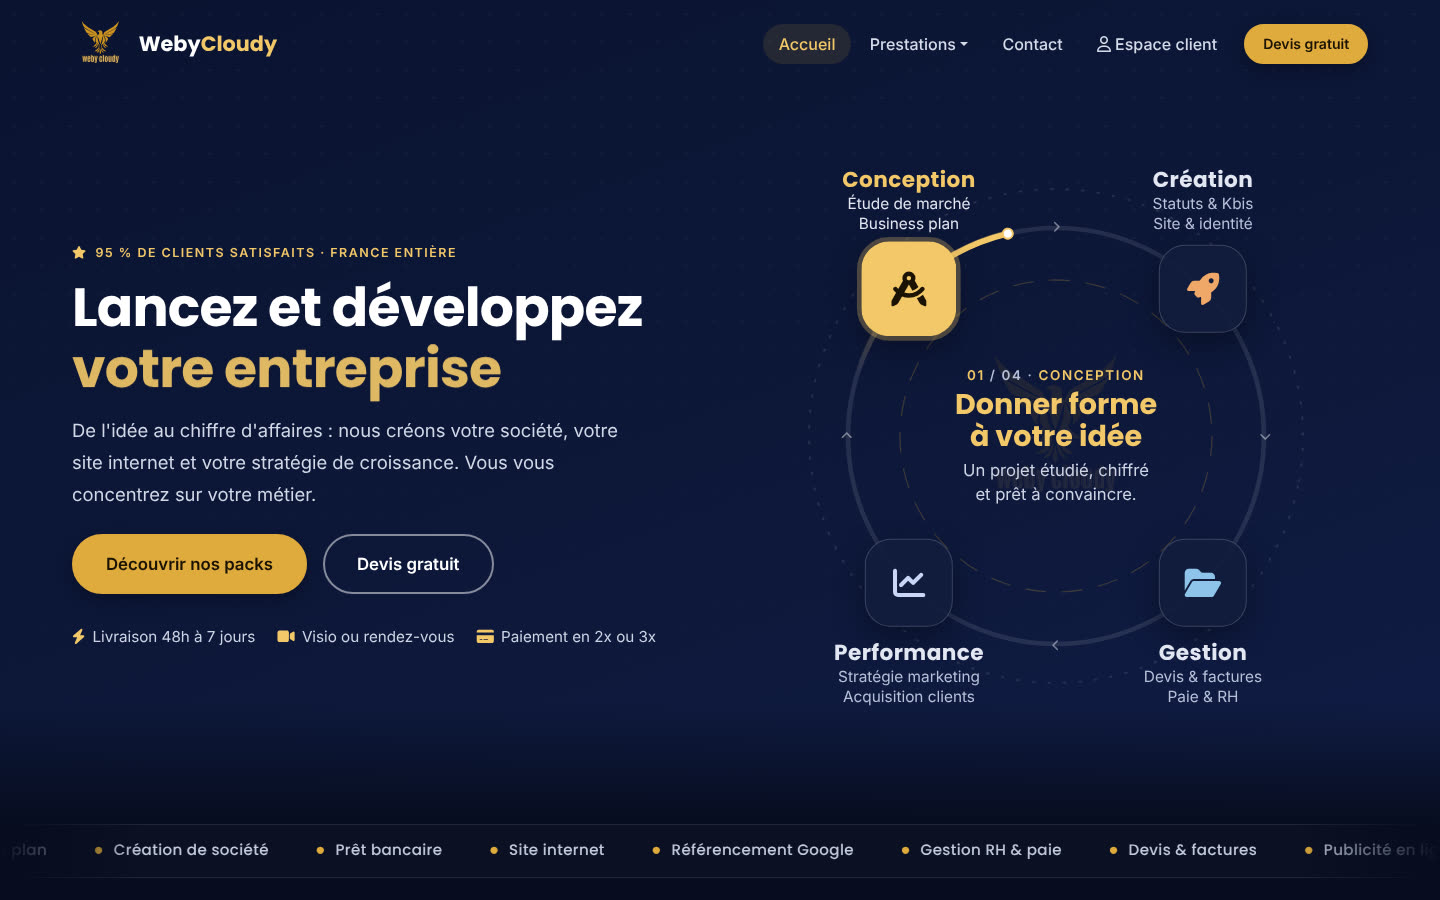
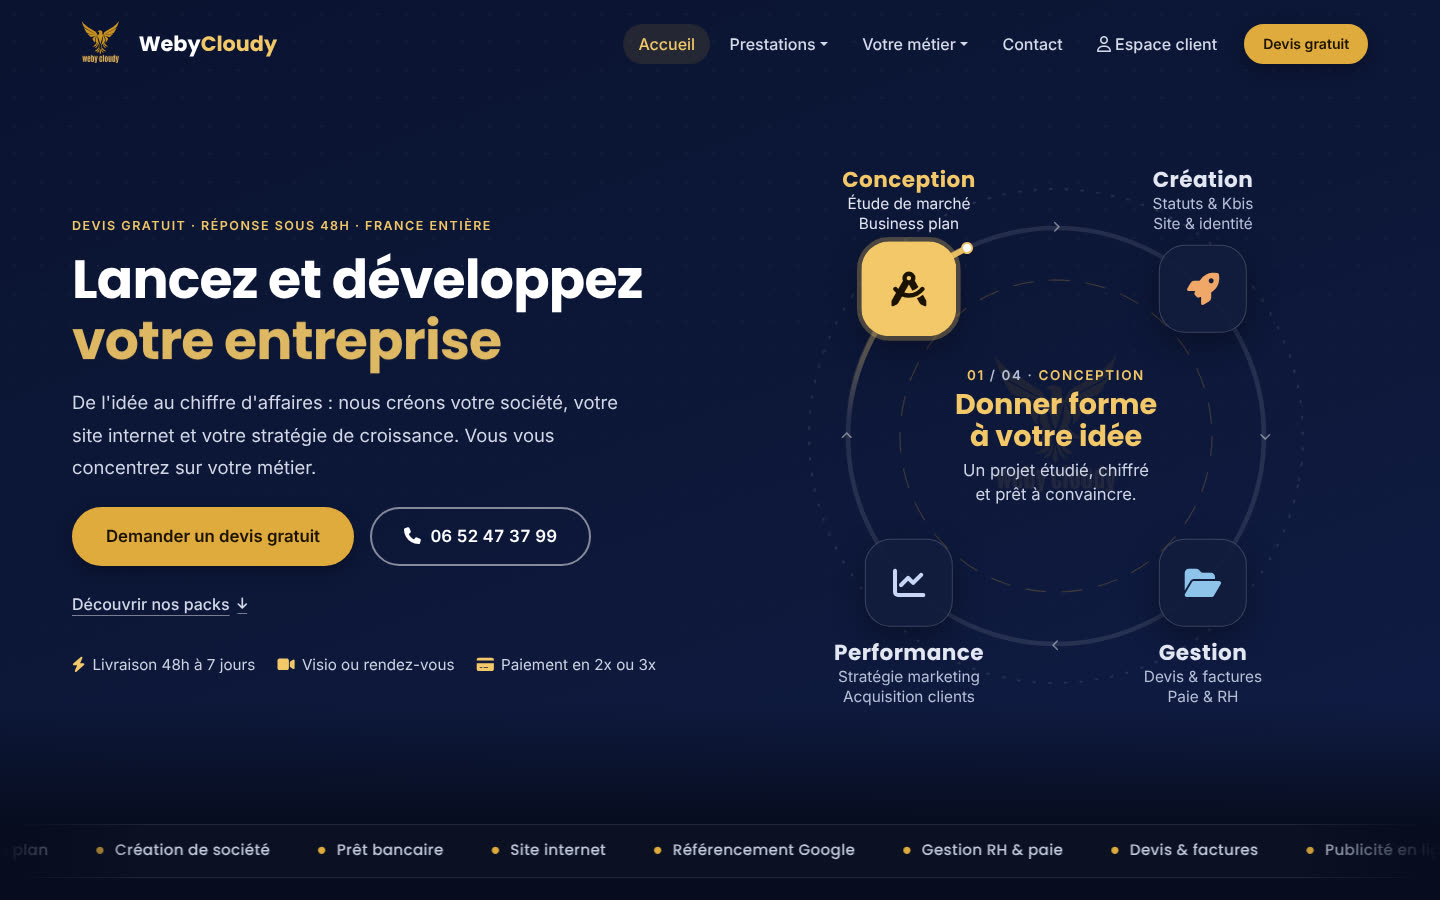
Style sobre sur la V3 assemblée : harmonisation des missions 1 à 3, retour en haut, inclinaison retirée
- theme.css : ambre de la charte dans les sections des missions, titres des pages à la même
  échelle que celui de l'accueil, pied de page dégagé du bouton « retour en haut » sur téléphone
- main.js : retrait du script d'inclinaison 3D des cartes (.tilt)
- cycle.php : couleurs des arcs alignées sur la charte
- historique : mesures refaites sur la V3 assemblée, PR vers V3

Claude-Session: https://claude.ai/code/session_01PR5frW2dgpudhCyFgjYUsv

diff --git a/public/CSS/theme.css b/public/CSS/theme.css
@@ -154,7 +154,7 @@ a { text-decoration: none; }
   background: linear-gradient(to bottom, transparent, var(--wc-bg));
 }
 .wc-hero > .container { position: relative; z-index: 1; }
-.wc-hero h1 { color: #fff; font-size: clamp(2.2rem, 4.8vw, 3.9rem); line-height: 1.08; margin-bottom: 1.2rem; }
+.wc-hero h1 { color: #fff; font-size: clamp(2rem, 4.8vw, 3.4rem); line-height: 1.08; margin-bottom: 1.2rem; } /* même échelle que le titre de l'accueil */
 .wc-hero h1 .accent { color: var(--wc-gold-2); }
 .wc-hero .lead { color: #d3d9e8; font-size: 1.15rem; max-width: 36rem; }
 .wc-hero.hero-compact { padding: 7.5rem 0 3rem; }
@@ -470,6 +470,8 @@ a { text-decoration: none; }
   opacity: 0; pointer-events: none; transform: translateY(10px); transition: opacity .25s ease, transform .25s ease;
 }
 .back-top.show { opacity: 1; pointer-events: auto; transform: none; }
+/* téléphone : le bas du pied de page (copyright, forme juridique, SIRET) s'arrête au-dessus du bouton « retour en haut » */
+@media (max-width: 767.98px) { .wc-footer { padding-bottom: calc(1.2rem + 46px + 1rem); } }
 
 /* ---------- Accessibilité ---------- */
 .skip-link { position: absolute; left: -9999px; top: 0; z-index: 2000; background: #fff; color: #0b1630; padding: .6rem 1rem; border-radius: 8px; }
@@ -510,7 +512,7 @@ a:focus-visible, button:focus-visible, summary:focus-visible, [tabindex]:focus-v
 }
 .rotating > span.on { opacity: 1; visibility: visible; transform: none; transition: opacity .35s ease, transform .35s var(--wc-ease), visibility 0s; }
 .wc-hero .row > div:has(> h1 .rotating) { container-type: inline-size; }
-.wc-hero h1:has(.rotating) { font-size: min(clamp(2rem, 4.8vw, 3.9rem), 8.6cqw); }
+.wc-hero h1:has(.rotating) { font-size: min(clamp(2rem, 4.8vw, 3.4rem), 8.6cqw); }
 @supports not (width: 1cqw) { .rotating > span { white-space: normal; } }
 
 /* visuel du hero des pages prestations : photo + cartes flottantes */
@@ -667,11 +669,6 @@ a:focus-visible, button:focus-visible, summary:focus-visible, [tabindex]:focus-v
 .pack-card:hover .pack-bg img { opacity: .3; transform: scale(1.02); }
 .pack-card > *:not(.pack-bg) { position: relative; z-index: 1; }
 
-/* cartes .tilt : plus d'inclinaison 3D ni de reflet au survol (main.js pose encore une transformation en ligne,
-   neutralisée ici) ; le survol se lit par l'ombre et la bordure */
-.tilt, .tilt.is-tilting { transform: none !important; transition: box-shadow .25s ease, border-color .25s ease; }
-.tilt .shine { display: none; }
-
 /* compteurs */
 .stat-tile .val { font-variant-numeric: tabular-nums; }
 
@@ -794,9 +791,9 @@ a:focus-visible, button:focus-visible, summary:focus-visible, [tabindex]:focus-v
 .legal-fiche .chiffres { font-variant-numeric: tabular-nums; }
 
 /* valeur obligatoire non renseignée : doit sauter aux yeux */
-.a-completer { display: inline-flex; align-items: center; gap: .45rem; padding: .15rem .6rem; border: 1px dashed var(--wc-orange); border-radius: 8px; background: rgba(255, 138, 61, .16); color: #ffd9bf; font-weight: 600; font-size: .95em; }
+.a-completer { display: inline-flex; align-items: center; gap: .45rem; padding: .15rem .6rem; border: 1px dashed var(--wc-orange); border-radius: 8px; background: rgba(240, 154, 85, .16); color: #ffd9bf; font-weight: 600; font-size: .95em; }
 .a-completer i { color: var(--wc-orange); font-size: .85em; }
-.legal-alerte { display: flex; gap: 1rem; margin: 0 auto 3rem; max-width: 60.5rem; padding: 1.25rem 1.4rem; border: 1px solid var(--wc-orange); border-radius: var(--wc-radius-sm); background: rgba(255, 138, 61, .12); color: #ffe6d4; }
+.legal-alerte { display: flex; gap: 1rem; margin: 0 auto 3rem; max-width: 60.5rem; padding: 1.25rem 1.4rem; border: 1px solid var(--wc-orange); border-radius: var(--wc-radius-sm); background: rgba(240, 154, 85, .12); color: #ffe6d4; }
 .legal-alerte > i { color: var(--wc-orange); font-size: 1.3rem; margin-top: .15rem; }
 .legal-alerte strong { display: block; color: #fff; font-size: 1.08rem; }
 .legal-alerte p { margin: .3rem 0 .5rem; line-height: 1.6; }
@@ -838,7 +835,7 @@ a:focus-visible, button:focus-visible, summary:focus-visible, [tabindex]:focus-v
 .btn-tel { display: inline-flex; align-items: center; justify-content: center; gap: .6rem; white-space: nowrap; font-variant-numeric: tabular-nums; }
 
 /* haut de l'accueil : lien discret vers les packs, sous les deux boutons */
-.hero-lien { display: inline-flex; align-items: center; gap: .5rem; margin-top: 1.25rem; padding: .35rem 0; color: rgba(255, 255, 255, .82); font-weight: 500; text-decoration: underline; text-decoration-color: rgba(255, 255, 255, .35); text-underline-offset: .3em; }
+.hero-lien { display: inline-flex; align-items: center; gap: .5rem; margin-top: 1.25rem; padding: .35rem 0; color: #d3d9e8; font-weight: 500; text-decoration: underline; text-decoration-color: rgba(255, 255, 255, .45); text-underline-offset: .3em; }
 .hero-lien:hover, .hero-lien:focus-visible { color: var(--wc-gold-2); text-decoration-color: currentColor; }
 .hero-lien i { font-size: .8em; }
 
@@ -863,7 +860,7 @@ a:focus-visible, button:focus-visible, summary:focus-visible, [tabindex]:focus-v
   .barre-mobile .btn { display: inline-flex; align-items: center; justify-content: center; gap: .55rem; min-height: 48px; padding: .5rem .75rem; white-space: nowrap; box-shadow: none; }
   .barre-mobile .btn:hover, .barre-mobile .btn:focus { transform: none; }
   /* la barre ne recouvre ni le bas du pied de page ni le bouton « retour en haut » */
-  .barre-mobile ~ .wc-footer { padding-bottom: calc(2rem + var(--wc-barre-mobile) + env(safe-area-inset-bottom, 0px)); }
+  .barre-mobile ~ .wc-footer { padding-bottom: calc(1.2rem + 46px + 1rem + var(--wc-barre-mobile) + env(safe-area-inset-bottom, 0px)); } /* + la hauteur du bouton « retour en haut » */
   .barre-mobile ~ .back-top { bottom: calc(1.2rem + var(--wc-barre-mobile) + env(safe-area-inset-bottom, 0px)); }
   /* pendant la saisie (clavier ouvert), la barre s'efface pour laisser voir le formulaire et son bouton d'envoi */
   body:has(.form-control:focus) .barre-mobile { display: none; }

diff --git a/public/Javascript/main.js b/public/Javascript/main.js
@@ -352,25 +352,8 @@
     });
   }
 
-  // inclinaison 3D des cartes au passage de la souris
+  // parallaxe du visuel du hero (souris uniquement)
   if (!reduit && window.matchMedia("(hover: hover) and (pointer: fine)").matches) {
-    document.querySelectorAll(".tilt").forEach(function (card) {
-      if (!card.querySelector(".shine")) { var s = document.createElement("span"); s.className = "shine"; card.appendChild(s); }
-      card.addEventListener("mousemove", function (e) {
-        var r = card.getBoundingClientRect();
-        var x = (e.clientX - r.left) / r.width, y = (e.clientY - r.top) / r.height;
-        card.classList.add("is-tilting");
-        card.style.transform = "perspective(900px) rotateX(" + ((.5 - y) * 6).toFixed(2) + "deg) rotateY(" + ((x - .5) * 8).toFixed(2) + "deg) translateY(-6px)";
-        card.style.setProperty("--mx", (x * 100) + "%");
-        card.style.setProperty("--my", (y * 100) + "%");
-      });
-      card.addEventListener("mouseleave", function () {
-        card.classList.remove("is-tilting");
-        card.style.transform = "";
-      });
-    });
-
-    // parallaxe douce du visuel du hero
     var scene = document.querySelector(".hero-scene");
     if (scene) {
       var hero = scene.closest(".wc-hero");

diff --git a/inc/partials/cycle.php b/inc/partials/cycle.php
@@ -9,7 +9,7 @@
     ["Gestion", "cyan", "fa-folder-open", ["Devis & factures", "Paie & RH"], "Gérer en toute sérénité", "Administratif, paie et RH\u{00A0}: nous gérons, vous validez.", "prestations/gestion"],
     ["Performance", "violet", "fa-chart-line", ["Stratégie marketing", "Acquisition clients"], "Accélérer votre essor", "Vendre plus, et plus cher, avec méthode.", "prestations/marketing"],
   ];
-  $couleursArc = ["or" => "#f3c868", "orange" => "#ff8a3d", "cyan" => "#3fd0ff", "violet" => "#8b5cf6"];
+  $couleursArc = ["or" => "#f3c868", "orange" => "#f0a868", "cyan" => "#8fc4ea", "violet" => "#c9d6f5"]; // teintes de la charte (style sobre)
   $nbEtapes = count($etapesCycle);
   $depart = -45; // première étape en haut à gauche : le cycle se lit comme une page
   $rayon = 40; // rayon du cercle des étapes, en % du côté du visuel

diff --git a/docs/HISTORIQUE.md b/docs/HISTORIQUE.md
@@ -30,11 +30,9 @@ Ne jamais écrire de mot de passe ni de clé dans ce fichier.
 - [ ] **Style plus sobre** (entrée du 2026-11-21, mission 4/4) : après fusion, regarder l'accueil sur téléphone et sur
       ordinateur (titre sur deux lignes sans trou, cycle sans étincelles, bouton « Découvrir le pack » du pack
       Croissance en simple contour) et dire si les quatre teintes du cycle conviennent (or clair, ambre, bleu ciel, bleu
-      glacier). Restent à faire hors CSS, par la conversation maître ou une autre mission : retirer de `main.js`
-      l'inclinaison 3D des cartes (`.tilt`, neutralisée en CSS), ajouter un vrai bouton pause au bandeau défilant
-      (`inc/header.php`, aujourd'hui pause au survol ou au toucher seulement), remplacer dans `inc/partials/cycle.php`
-      les couleurs d'arc `$couleursArc` par celles de la charte (`#f3c868`, `#f0a868`, `#8fc4ea`, `#c9d6f5`), décider du
-      sort des sur-titres en capitales et des chiffres 01–04 des solutions (signalés par le détecteur, liés au balisage).
+      glacier). Restent à décider : un vrai bouton pause pour le bandeau défilant du haut d'accueil (`inc/header.php`,
+      aujourd'hui pause au survol ou au toucher seulement), le sort des sur-titres en capitales et des chiffres 01–04
+      des solutions (signalés par le détecteur, liés au balisage).
 - [ ] **Identité légale et « Qui suis-je »** (entrée du 2026-11-21, PR #27 vers `V3`) : avant la mise en ligne de la V3, renseigner dans
       `config/config.php` : `legal_nom`, `legal_forme`, `legal_siret`, `legal_adresse`, `legal_responsable` (et, selon le
       statut, `legal_capital`, `legal_rcs`, `legal_tva`) ; pour le bloc « Qui suis-je » : `qui_prenom`, `qui_texte`,
@@ -148,21 +146,29 @@ par l'audit design du 2026-11-21 (PR #25). Travail en CSS uniquement, méthode I
   survol ou au toucher ; soulèvement des cartes limité à 3 px ; `prefers-reduced-motion` coupe toutes les animations
   (0 animation active mesurée).
 - **Lecture** : paragraphes d'introduction limités à 62 caractères de large, titres équilibrés (`text-wrap`).
+- **Après fusion de `V3`** (missions 1 à 3) : sections CSS des trois missions harmonisées (ambre de la charte, lien
+  « Découvrir nos packs ») ; script d'inclinaison 3D des cartes retiré de `main.js` ; couleurs des arcs du cycle
+  alignées sur la charte dans `inc/partials/cycle.php` ; titres des autres pages ramenés à la même échelle que celui
+  de l'accueil (3,4 rem au plus au lieu de 3,9) ; sur téléphone, le bas du pied de page (copyright, forme juridique,
+  SIRET) s'arrête 16 px au-dessus du bouton « retour en haut » au lieu de passer dessous.
 - Charte graphique et décisions mises à jour (style sobre).
 
 **Fichiers / zones touchés** : `public/CSS/theme.css`, `docs/CHARTE_GRAPHIQUE.md`, `docs/DECISIONS.md`,
-`docs/audits/captures-2026-11-21-style-sobre/` (captures avant / après), `docs/HISTORIQUE.md`. Aucun fichier PHP ni
-JavaScript modifié.
-**Vérifications** : site local (PHP 8.3 + MariaDB 10.11) ; Chromium à 1440×900 et 390×844 sur l'accueil, une
-prestation, un métier, contact, connexion, tableau de bord et profil client, administration (tableau, nouveau projet),
-supervision : aucun warning PHP, aucune erreur JavaScript, aucun défilement horizontal, captures relues. Détecteur
-Impeccable avant → après : accueil 88 → 14 signaux (1440) et 81 → 13 (390), page métier 65 → 14 et 63 → 18, contact
-15 → 6 et 12 → 6 ; halos 25 → 0, ombres lumineuses 21 → 0, textes en dégradé 12 → 0, contraste 6 → 0, palette
-violet/cyan 3 → 0, rebond 1 → 0, textes trop petits 3 → 0, longueur de ligne 1 → 0. Restent les signaux liés au
-balisage (sur-titres en capitales, tuiles d'icônes, existence du bandeau défilant, police Inter de la charte).
-**Référence** : PR #29 (branche `claude/weby-4-style-sobre`)
-**Suites** : voir « Points en suspens » (retrait du script d'inclinaison, bouton pause du bandeau, couleurs d'arc du
-cycle dans le PHP, sur-titres).
+`docs/audits/captures-2026-11-21-style-sobre/` (captures avant / après), `docs/HISTORIQUE.md` ; après fusion de `V3`,
+à la demande de la conversation maître : `public/Javascript/main.js` (retrait de l'inclinaison), `inc/partials/cycle.php`
+(couleurs des arcs).
+**Vérifications** : `php -l` et `node --check` sur les fichiers modifiés ; site local (PHP 8.3 + MariaDB 10.11) sur la
+`V3` assemblée ; Chromium à 1440×900 et 390×844 sur l'accueil, une prestation, un métier, contact, mentions légales,
+confidentialité, connexion, tableau de bord et profil client, administration (tableau, nouveau projet), supervision :
+aucun warning PHP, aucune erreur JavaScript, aucun défilement horizontal, captures relues. 166 mesures de contraste
+conformes (pixels réellement affichés), aucun texte sous 12 px. Détecteur Impeccable, `V3` avant → après, sur 6 pages
+et 2 largeurs : 296 → 78 signaux (accueil 68 → 8 à 1440 et 60 → 7 à 390 ; métier 36 → 13 et 39 → 17 ; prestation
+24 → 7 et 22 → 7 ; contact 14 → 5 et 11 → 5 ; mentions légales 5 → 2 et 5 → 3 ; connexion 6 → 2) ; halos 60 → 0,
+ombres lumineuses 57 → 0, textes en dégradé 32 → 0, contraste 20 → 0, palette violet/cyan 10 → 0, rebond 2 → 0, textes
+trop petits 3 → 0, longueur de ligne 1 → 0. Restent les signaux liés au balisage (sur-titres en capitales, tuiles
+d'icônes, bandeau défilant, police Inter de la charte).
+**Référence** : PR #29 vers `V3` (branche `claude/weby-4-style-sobre`)
+**Suites** : voir « Points en suspens » (bouton pause du bandeau du haut d'accueil, sur-titres).
 
 ## 2026-11-21 — Accueil plus court et navigation des métiers (mission 3 du chantier design)
 
